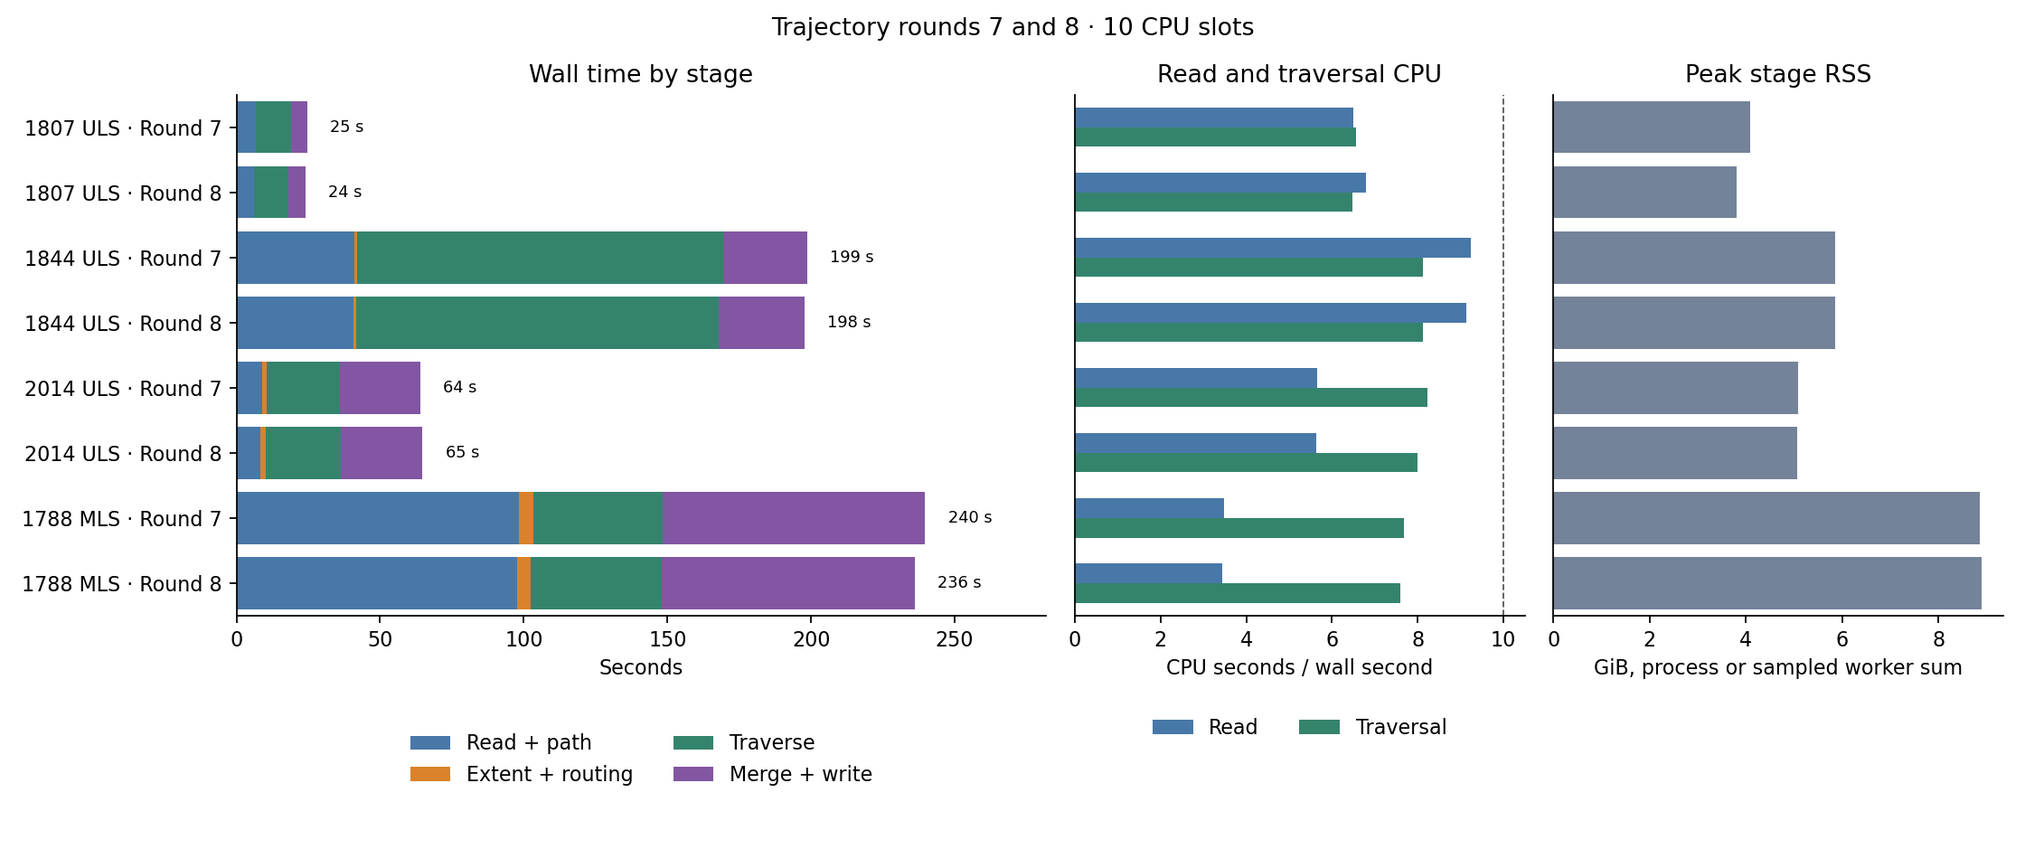
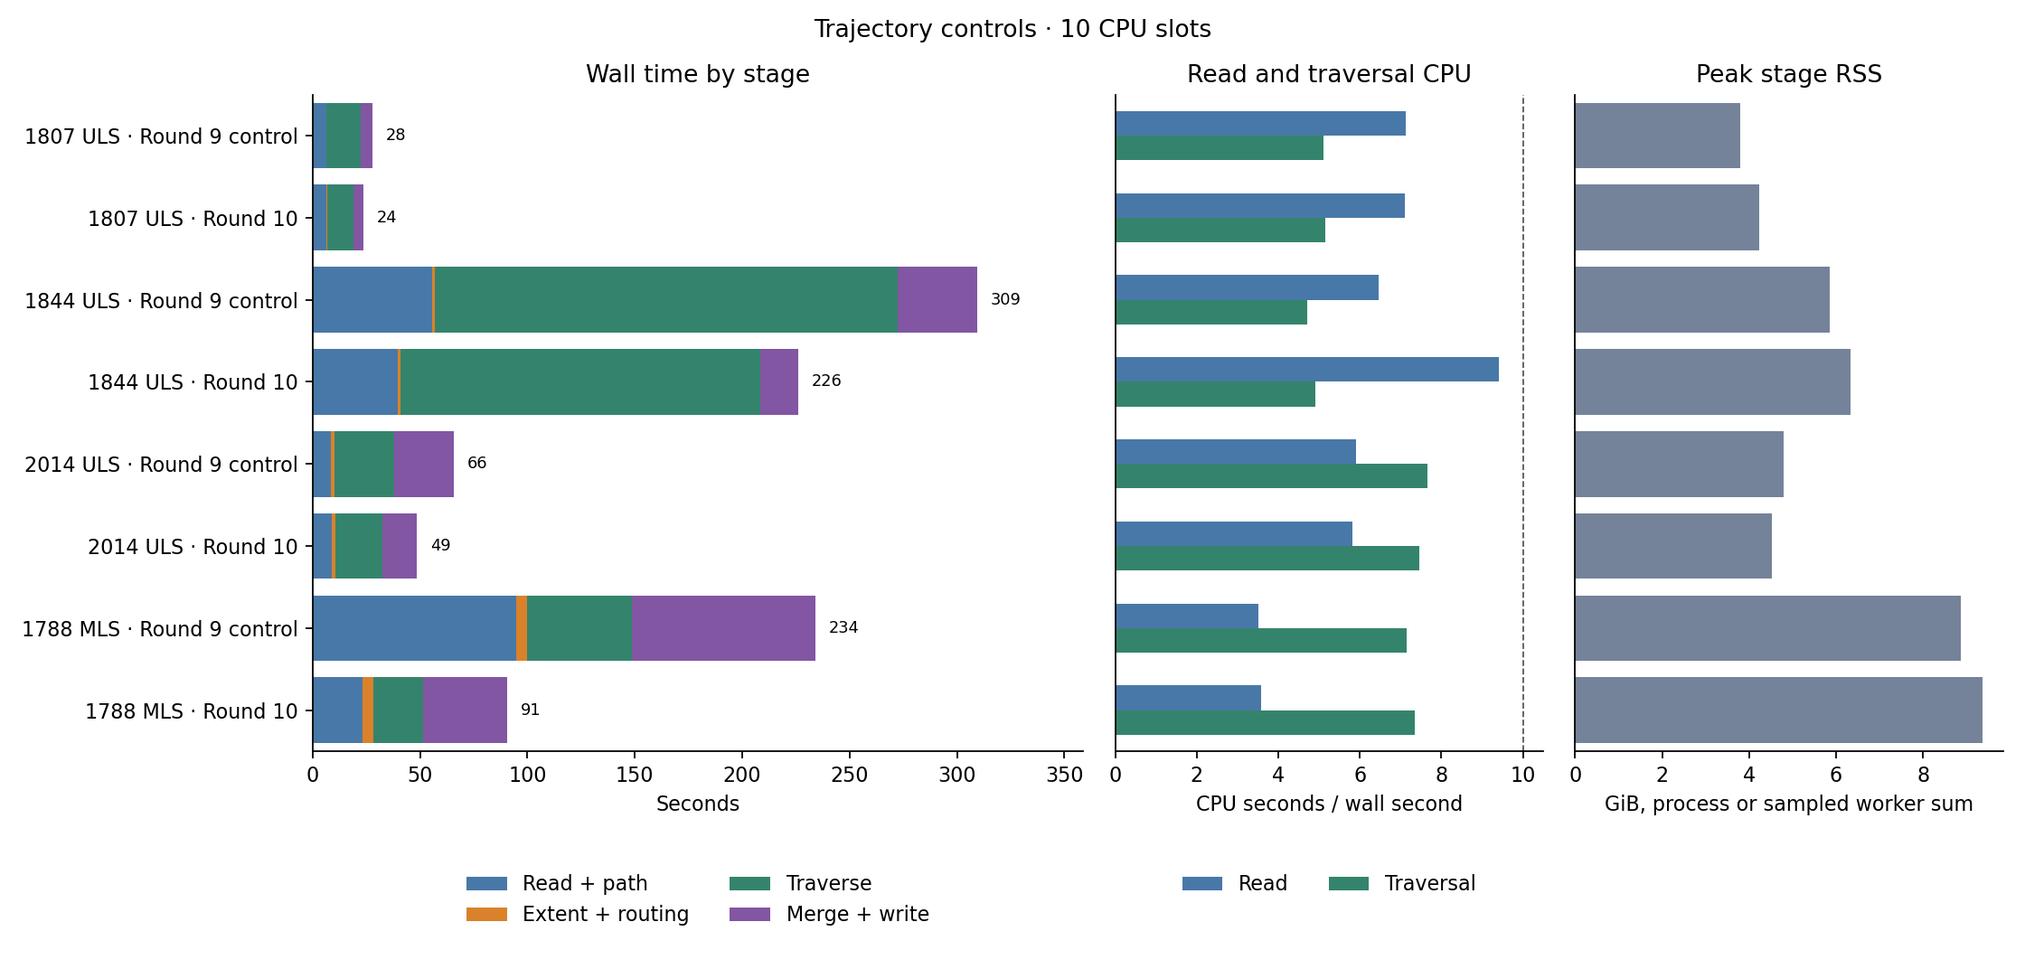
Document round 10 trajectory performance and resource limits

diff --git a/docs/figures/make_figures.py b/docs/figures/make_figures.py
@@ -25,42 +25,59 @@ stages = [
     ("Merge + write", ("classify + ground", "classify voxels + write products", "COPC write", "COG write")),
 ]
 colors = ["#4878a8", "#d9822b", "#34846d", "#8256a2"]
-runs = list(dict.fromkeys((r["run"], r["mode"]) for r in table if r["mode"] in ("Round 7", "Round 8")))
 rows = {(r["run"], r["mode"], r["stage"]): r for r in table}
-labels = [f"{name} · {mode}" for name, mode in runs]
-fig, axes = plt.subplots(1, 3, figsize=(14, 6), gridspec_kw={"width_ratios": [1.8, 1, 1]})
-positions = range(len(runs))
 
-for position, run in enumerate(runs):
-    offset = 0.0
-    for (name, members), color in zip(stages, colors):
-        seconds = sum(float(rows[(*run, member)]["wall_s"]) for member in members if (*run, member) in rows)
-        axes[0].barh(position, seconds, left=offset, color=color, label=name if position == 0 else None)
-        offset += seconds
-    axes[0].text(offset + 8, position, f"{offset:.0f} s", va="center", fontsize=8)
-    read = rows.get((*run, "read/time-sort"), {})
-    trace = rows.get((*run, "traversal"), {})
-    axes[1].barh(position - 0.15, float(read.get("cores", 0)), height=0.3, color=colors[0],
-                 label="Read" if position == 0 else None)
-    axes[1].barh(position + 0.15, float(trace.get("cores", 0)), height=0.3, color=colors[2],
-                 label="Traversal" if position == 0 else None)
-    peak = max(float(r["peak_ram_gib"]) for r in table if (r["run"], r["mode"]) == run)
-    axes[2].barh(position, peak, color="#748399")
 
-axes[0].set(title="Wall time by stage", xlabel="Seconds", yticks=list(positions), yticklabels=labels)
-axes[0].legend(loc="lower center", bbox_to_anchor=(0.5, -0.36), ncol=2, frameon=False)
-axes[0].set_xlim(0, axes[0].get_xlim()[1] * 1.12)
-axes[1].set(title="Read and traversal CPU", xlabel="CPU seconds / wall second", xlim=(0, 10.5), yticks=[])
-axes[1].axvline(10, color="#555", linestyle="--", linewidth=0.8)
-axes[1].legend(loc="lower center", bbox_to_anchor=(0.5, -0.27), ncol=2, frameon=False)
-axes[2].set(title="Peak stage RSS", xlabel="GiB, process or sampled worker sum", yticks=[])
-for ax in axes:
-    ax.set_ylim(len(runs) - 0.5, -0.5)
-    ax.spines[["top", "right"]].set_visible(False)
-fig.suptitle("Trajectory rounds 7 and 8 · 10 CPU slots", y=0.98)
-fig.tight_layout()
-fig.savefig(OUT / "stages.png", dpi=160)
-plt.close(fig)
+def plot_stages(modes, title, filename, *, minutes=False):
+    runs = list(dict.fromkeys((r["run"], r["mode"]) for r in table if r["mode"] in modes))
+    if not runs:
+        return
+    labels = [f"{name} · {mode}" for name, mode in runs]
+    fig, axes = plt.subplots(1, 3, figsize=(14, max(3.5, 0.65 * len(runs) + 1.5)),
+                             gridspec_kw={"width_ratios": [1.8, 1, 1]})
+    positions = range(len(runs))
+    divisor = 60 if minutes else 1
+    totals = []
+    for position, run in enumerate(runs):
+        offset = 0.0
+        for (name, members), color in zip(stages, colors):
+            seconds = sum(float(rows[(*run, member)]["wall_s"]) for member in members if (*run, member) in rows)
+            duration = seconds / divisor
+            axes[0].barh(position, duration, left=offset, color=color, label=name if position == 0 else None)
+            offset += duration
+        totals.append(offset)
+        read = rows.get((*run, "read/time-sort"), {})
+        trace = rows.get((*run, "traversal"), {})
+        axes[1].barh(position - 0.15, float(read.get("cores", 0)), height=0.3, color=colors[0],
+                     label="Read" if position == 0 else None)
+        axes[1].barh(position + 0.15, float(trace.get("cores", 0)), height=0.3, color=colors[2],
+                     label="Traversal" if position == 0 else None)
+        peak = max(float(r["peak_ram_gib"]) for r in table if (r["run"], r["mode"]) == run)
+        axes[2].barh(position, peak, color="#748399")
+
+    width = max(totals)
+    legend_y = -0.25 if minutes else -0.16
+    for position, duration in enumerate(totals):
+        axes[0].text(duration + width * 0.02, position, f"{duration:.0f}", va="center", fontsize=8)
+    axes[0].set(title="Wall time by stage", xlabel="Minutes" if minutes else "Seconds",
+                yticks=list(positions), yticklabels=labels, xlim=(0, width * 1.16))
+    axes[0].legend(loc="upper center", bbox_to_anchor=(0.5, legend_y), ncol=2, frameon=False)
+    axes[1].set(title="Read and traversal CPU", xlabel="CPU seconds / wall second", xlim=(0, 10.5), yticks=[])
+    axes[1].axvline(10, color="#555", linestyle="--", linewidth=0.8)
+    axes[1].legend(loc="upper center", bbox_to_anchor=(0.5, legend_y), ncol=2, frameon=False)
+    axes[2].set(title="Peak stage RSS", xlabel="GiB, process or sampled worker sum", yticks=[])
+    for ax in axes:
+        ax.set_ylim(len(runs) - 0.5, -0.5)
+        ax.spines[["top", "right"]].set_visible(False)
+    fig.suptitle(title, y=0.98)
+    fig.tight_layout()
+    fig.savefig(OUT / filename, dpi=160)
+    plt.close(fig)
+
+
+plot_stages(("Round 9 control", "Round 10"), "Trajectory controls · 10 CPU slots", "stages.png")
+plot_stages(("Round 8 50 GiB", "Round 10 50 GiB"), "Dataset 2585 full replays · 10 CPU slots and 50 GiB",
+            "stages-2585.png", minutes=True)
 
 # ---------- flow.png: decision flow ----------
 fig, ax = plt.subplots(figsize=(13, 15))
@@ -103,10 +120,10 @@ box(5, 13.9, "Quality: median line miss ≤ 0.1 m good · ≤ 0.5 m rough\n> 0.5
 ok(2.3, 11.4, "Trajectory CSV and GeoJSON\nJSON report with --debug")
 box(7.4, 11.4, "Occlusion requested?\npath = delivered (always, if given;\nflag if median miss > 0.1 m) else estimated", w=5.2, h=1.8)
 box(7.4, 8.6, "Merge first-read column bounds in path coverage\nSample terrain raster with lowest-hit fallback", w=5.6, h=1.6)
-box(7.4, 6.0, "Stream disjoint GPS windows in parallel\nAdmit workers by estimated memory and measured RSS.", w=5.6, h=1.6)
-box(7.4, 3.5, "Classify voxels: 1 filled · 2 empty · 3 occluded · 4 unobserved", w=5.8, h=1.2)
+box(7.4, 6.0, "Stream disjoint GPS windows in parallel\nAdjust admission using observed worker peak RSS.", w=5.6, h=1.6)
+box(7.4, 3.5, "Classify blocks in parallel, then write in grid order", w=5.8, h=1.2)
 ok(7.4, 1.2, "Occlusion COPC (classes 1, 3 and 4)\n+ COG (one band per voxel layer, 0.5 m default)")
-box(11.65, 8.6, "Occlusion error\nstderr, empty products,\npath kept", color="#fde2e1", w=2.4, h=1.9)
+box(11.65, 8.6, "Occlusion error\nstderr, empty products,\nexit 2 if scratch is full", color="#fde2e1", w=2.4, h=1.9)
 
 for y1, y2 in ((28.2, 27.4), (25.8, 25.0), (23.4, 22.6), (21.0, 20.2), (18.6, 17.8), (15.8, 14.7)):
     arrow(5, y1, 5, y2)

diff --git a/docs/REPORT.md b/docs/REPORT.md
@@ -87,27 +87,31 @@ The steps below follow `src/threedtrees_trajectory/cli.py:main`.
    The highest hits within path coverage give canopy height.
    The final vertical grid spans ground minus 1 m through canopy top plus 1 m, within the point extent.
 8. **Traversal** (`time_windows.py`, `ray_walk.cpp`). Workers seek the relevant LAS/LAZ ranges, rebuild whole
-   pulses and trace them in disjoint GPS windows. The window planner uses the available slots and splits
+   pulses and trace them in disjoint GPS windows. Separated returns are sorted by index and paired in bounded
+   batches that keep equal time, point source and channel together. The window planner uses the available slots and splits
    further in time if needed. The scheduler starts each worker with a reservation based on the window's echo
    count, count voxels and columns. It scales the planning estimate for later workers by the highest observed
    RSS-to-estimate ratio, adds 25% and 256 MiB, and checks cgroup headroom before admitting workers.
+   Clean file pages can be reclaimed. Dirty and writeback pages count against headroom.
    On suspected memory failure, it drains active workers before retrying the affected window alone
    with a larger reservation. Completed count files can be reused after an interruption.
    The reread needs point source ID for pulse grouping and clock repair, so it skips scan angle.
    Unrepaired path-boundary rereads need just the base layer, Z and GPS time.
-9. **Classify voxels + write products** (`occlusion.py`). Sum hit, pass and hidden counts blockwise. A hit makes a filled
+9. **Classify voxels + write products** (`occlusion.py`). Workers sum hit, pass and hidden counts and classify each
+   block independently. The writer consumes completed blocks in grid order. A hit makes a filled
    voxel, a pass makes an empty voxel, and hidden-only makes an occluded voxel. Keep an unobserved class
    for voxels with zero coverage. Write voxel records to COPC and an occluded share to each COG band.
    With voxel size `s`, band `k` covers `[k·s, (k+1)·s)` metres above ground.
 10. **Occlusion failure** (`cli.py`). Print the error to stderr and publish zero-byte occlusion files.
-    Traversal errors after a successful trajectory estimate retain it with a warning in its CSV header.
+    Ordinary traversal errors after a successful trajectory estimate retain it with a warning in its CSV header.
+    Exhausted checkpoint storage is a job error with exit code 2.
 
 ### Exit codes
 
 | Code | Meaning | Where |
 | --- | --- | --- |
 | 0 | Done | `cli.py` |
-| 2 | Invalid arguments, unreadable input, out of memory, TLS refused, requested debug report not writable | `cli.py` |
+| 2 | Invalid arguments, unreadable input, out of memory, checkpoint storage exhausted, TLS refused, requested debug report not writable | `cli.py` |
 | 3 | GPS time missing, constant or not finite | `coverage.py`, `pulses.py`, `estimate.py` |
 | 4 | No path can be estimated (no pulses, single returns without scan angle, too few reliable positions) | `coverage.py`, `estimate.py`, `cli.py` |
 
@@ -118,6 +122,23 @@ path as supplementary data.
 ## 3. Stage resources
 
 ![Stage resources](figures/stages.png)
+
+Round 10 control replays used the pinned image, ten CPU slots, and a 50 GiB cap. Each pair compares wall
+times from one run at `38ff410` and one at round 10 with lowest-hit ground.
+
+| Dataset | Whole job (s) | Path (s) | Traversal (s) | Classify and write (s) | COG (s) |
+| --- | ---: | ---: | ---: | ---: | ---: |
+| 1807 | 28.7 → 24.6 | 1.0 → 1.1 | 15.9 → 12.6 | 1.3 → 0.3 | 0.8 → 0.7 |
+| 1844 | 311.3 → 228.0 | 5.6 → 5.1 | 215.7 → 167.5 | 10.6 → 1.8 | 10.1 → 6.6 |
+| 2014 | 67.4 → 50.2 | 1.0 → 1.0 | 27.6 → 22.0 | 11.0 → 2.1 | 9.4 → 6.4 |
+| 1788 | 236.9 → 93.7 | 89.3 → 17.9 | 48.9 → 23.2 | 45.5 → 8.0 | 28.3 → 19.3 |
+
+The 1788 scan-angle fits use separate processes and merge in time order. The optimized ray walker reuses
+the active column and specializes single-return pulses. In a one-core benchmark of 1.8 million synthetic
+rays it ran in 4.03 s, down from 5.13 s, with identical counts.
+
+Terrain controls use the round-9 reference rasters for 1807 and 2014 and locally generated 1 m
+lowest-return fixtures for 1844 and 1788. Each comparison uses the same raster for both tool versions.
 
 The round-7 baseline (`6e2410a`) and round 8 used the same local scanner-order LAZ inputs and ten
 CPU slots per job within a shared 140 GiB scope. Datasets 1807, 1844 and 2014 are ULS and 1788
@@ -302,28 +323,52 @@ on 1844 and 5.1 on 2014 with ten workers.
 
 ### Dataset 2585 at 50 GiB
 
-The 50 GiB replay used 25 local scanner-order LAS 1.2 PF 3 files (7,044,924,732 input points) and ten CPU slots. Peak RSS takes the larger of the sampled worker-inclusive aggregate and the highest
-single-process RSS. The scratch values measure allocated blocks.
+The 50 GiB replays used the same 25 local scanner-order LAS 1.2 PF 3 files (7,044,924,732 input points),
+ten CPU slots, and no swap. Round 10 used `--grid-memory-gib 8`. Mean cores, peak RSS and scratch each
+read from round 8 to round 10. RSS uses the greater of the sampled worker-inclusive sum and the largest
+process. Scratch uses allocated blocks.
 
-| Stage | Wall (h:mm:ss or m:ss) | Mean cores | Peak RSS (GiB) | Sampled scratch (GiB) |
-| --- | ---: | ---: | ---: | ---: |
-| Read, reconstruct pulses and index source | 8:39 | 9.01 | 16.08 | — |
-| Platform check | 0:00 | 1.00 | 12.38 | — |
-| Path fitting | 0:24 | 1.62 | 12.39 | — |
-| Extent and crop | 0:16 | 1.00 | 11.86 | — |
-| Plan GPS windows | 0:15 | 1.00 | 11.93 | — |
-| Rebuild and trace pulses | 2:59:48 | 5.71 | 30.46 | 26.24 |
-| Classify voxels + write products | 20:40 | 1.00 | 16.17 | 30.05 |
-| Write voxel COPC | 0:33 | 8.39 | 14.03 | 41.69 |
-| Write height-band COG | 2:57 | 1.65 | 13.65 | 41.69 |
-| Whole job | 3:33:44 | 5.31 | 30.46 | 41.69 |
+![2585 stage resources at 50 GiB](figures/stages-2585.png)
 
-Traversal completed 99 GPS windows with 7 workers at peak. Peak reservations were 34.51 GiB, with 0 isolated retries. Median and maximum window RSS were 1.86 GiB and 5.02 GiB. Cgroup memory peaked at 50.00 GiB including file cache, with 0 OOM kills. The products contain 78,708,640 COPC records and a 4,520 × 2,426 COG with 127 bands.
+| Stage | Round 8 wall | Round 10 wall | Mean cores | Peak RSS (GiB) | Allocated scratch (GiB) |
+| --- | ---: | ---: | ---: | ---: | ---: |
+| Read, reconstruct pulses and index source | 8:39 | 8:23 | 9.01 → 8.89 | 16.08 → 15.29 | — → — |
+| Platform check | 0:00 | 0:00 | 1.00 → 1.00 | 12.38 → 12.36 | — → — |
+| Path fitting | 0:24 | 0:16 | 1.62 → 1.62 | 12.39 → 12.37 | — → — |
+| Extent and crop | 0:16 | 0:16 | 1.00 → 1.00 | 11.86 → 11.80 | — → — |
+| Plan GPS windows | 0:15 | 0:26 | 1.00 → 1.00 | 11.93 → 11.94 | — → — |
+| Rebuild and trace pulses | 2:59:48 | 1:38:40 | 5.71 → 8.26 | 30.46 → 32.11 | 26.24 → 32.78 |
+| Classify voxels and write intermediates | 20:40 | 20:48 | 1.00 → 2.16 | 16.17 → 21.77 | 30.05 → 38.54 |
+| Write voxel COPC | 0:33 | 0:32 | 8.39 → 8.55 | 14.03 → 33.19 | 41.69 → 50.18 |
+| Write height-band COG | 2:57 | 1:37 | 1.65 → 2.03 | 13.65 → 18.39 | 41.69 → 50.19 |
+| Whole job | 3:33:44 | 2:11:02 | 5.31 → 7.20 | 30.46 → 33.19 | 41.69 → 50.19 |
 
-Read, pulse reconstruction and path fitting took 9.1 min, compared with 8.4 min in the stopped 50 GiB run. That run stopped after 33 windows and 3 h 15 min of traversal, averaging about 2.4 cores over the job. Round 8 passed its 2.68 billion traced echoes after 1:35:17 of total wall time, compared with 3 h 24 min in the stopped run. The full round-8 run averaged 5.31 cores and completed in 3:33:44. The round-2 spatial-tile replay took 7 h 46 min under a 190 GiB cap. Round 8 used 46% of that wall time.
+Round 10 completed 143 GPS windows. Peak concurrency rose from seven to ten workers. Mean traversal CPU
+rose from 5.71 to 8.26 cores. Peak reservations were 34.35 GiB in round 10 and 34.51 GiB in round 8.
+Median and maximum worker RSS were 1.36 and 3.08 GiB in round 10. Cgroup memory peaked at 50.00 GiB
+including file cache. The run recorded zero OOM kills and zero isolated retries.
 
-The verified input was the local raw acquisition. The standardized 2585 collection is still needed
-to validate the proposed Galaxy resource class.
+Round 8 reserved substantially more than the measured RSS for the largest windows. About 1.5% of its
+reads repeated records at window boundaries. Round 10 reduces retained fragment arrays, accounts for dirty
+file pages, and uses a lower per-window planning ceiling to improve admission.
+
+The CSV and GeoJSON matched round 8 byte for byte. COG pixels and stored tags matched, as did all
+decoded COPC records sorted by voxel centre. Untwine randomly samples COPC overview levels during
+packaging, so equivalent records can produce different compressed bytes.
+[Untwine 1.5.1 sampling implementation](https://github.com/hobuinc/untwine/blob/1.5.1/bu/Processor.cpp#L99-L126)
+
+The first merge took 20:48. A tile can overlap more windows than the 32-entry cache can hold, causing the
+same column offsets to be rebuilt for successive tiles. The new cache retains the layouts and virtual
+mappings when cgroup headroom and the file-descriptor limit allow it. The checkpoint replay reused
+143 completed windows under the same 50 GiB cap. It classified and wrote the intermediates in 1:13.
+Substituting that measured stage into the full run gives an estimated 1:51:27 from scratch. The resumed
+merge's process RSS peaked at 62.13 GiB including mapped count files. The resumed cgroup reached 50 GiB
+with zero OOM kills.
+
+The stopped 50 GiB run processed 2.68 billion echoes in 3 h 24 min, compared with 1 h 35 min in round 8
+and under 44 min in round 10. The round-2 spatial-tile replay took 7 h 46 min under a 190 GiB cap. The
+full 50 GiB replays used the raw acquisition. A standardized 2585 replay is required to validate the
+Galaxy estimate for that acquisition.
 
 **Resource request for Galaxy (proposal, 10 cores)**
 
@@ -332,7 +377,7 @@ to validate the proposed Galaxy resource class.
 | ≤ 75 M | 32 GiB | 16 GiB | 1 h |
 | 75–750 M | 64 GiB | 96 GiB | 2 h |
 | 750 M–2.1 B | 96 GiB | 256 GiB | 5 h, estimated |
-| 2.1–7.1 B | 140 GiB | 750 GiB | 10 h, estimated |
+| 2.1–7.1 B | 96 GiB | 256 GiB | 6 h, estimated |
 
 For wide grids, also size for the ground-to-canopy count cells, merge block depth and raster band count.
 

diff --git a/README.md b/README.md
@@ -111,12 +111,15 @@ Occlusion uses independent workers over disjoint GPS-time windows. Workers seek 
 trace each complete pulse once. They use the same voxel lattice and store compact counts between the ground
 and canopy. The planner splits a window further in time when its working memory or echo count exceeds the
 budget. Set the planning ceiling with `--grid-memory-gib` (16 GiB by default). At runtime the scheduler reserves
-the estimated memory of each window within the available cgroup memory and `--threads` limit. It adjusts
-subsequent reservations using measured window peak RSS. A worker that runs out of memory is retried once
+the estimated memory of each window within the available cgroup memory and `--threads` limit. Clean file
+cache is reclaimable. Dirty and writeback pages count toward the working budget. The scheduler adjusts
+subsequent reservations using each completed window's peak RSS. A worker that runs out of memory is retried once
 on its own if a larger reservation is available.
 
-The merge adds window counts blockwise before classifying voxels. Repeat the same command to resume an
-interrupted run. Keep the `.occlusion-*` checkpoint beside the COPC until both outputs are published.
+Workers merge counts and classify independent voxel blocks. The writer publishes COPC records and raster windows
+in grid order. Repeat the same command to resume an interrupted run and reuse finished windows. Keep the
+`.occlusion-*` checkpoint beside the COPC until both outputs are published. A checkpoint write failure
+from exhausted storage reports exit code 2.
 A merged COPC can supply the trajectory estimate. For occlusion, supply the standardized LAS/LAZ collection.
 
 The delivered path is used for every occlusion ray when supplied. `OCCLUSION_DELIVERED_MISS_FLAG` records whether
@@ -131,9 +134,13 @@ dataset tags. The COPC stores the same keys in the `3dtrees` extended variable l
 
 COPC indexing and COG conversion use temporary files beside the product destinations. The job needs space for
 the uncompressed voxel LAS, intermediate TIFF and final outputs. Wide rasters use a band-interleaved
-intermediate and up to four job slots for the COG conversion. The image includes Untwine 1.5.1. For local
+intermediate and up to four job slots for the COG conversion. They skip intermediate compression when scratch
+has room for the uncompressed raster. The image includes Untwine 1.5.1. For local
 runs, install the package with `python -m pip install .` using a C++17 compiler and set
 `TRAJECTORY_UNTWINE` to an executable Untwine 1.5.1 installation.
+
+Untwine randomizes COPC overview sampling. For regression checks, compare decoded records in voxel-centre order.
+[Untwine 1.5.1 sampling implementation](https://github.com/hobuinc/untwine/blob/1.5.1/bu/Processor.cpp#L99-L126)
 
 ## Platform pre-gate
 
@@ -174,8 +181,9 @@ the path tool's scope.
 
 - The reader decodes up to five million points per batch. The job caps decoding, path fitting and window workers
   at the configured `GALAXY_SLOTS` or `--threads`, CPU affinity and cgroup quota. The default is ten slots.
-  Large files decode independent record ranges and merge them in scanner order. The path solver runs independent
-  fits concurrently and merges them in order. Compressed LAS 1.4 point formats 6–10 decode only
+  Large files decode independent record ranges and merge them in scanner order. The path solver uses threads
+  for pulse-line fits and separate processes for scan-angle fits. It merges both in time-window order.
+  Compressed LAS 1.4 point formats 6–10 decode only
   coordinates, GPS time, return numbers, scanner channel, point source ID and scan angle during path
   estimation. Window tracing skips scan angle, and ordinary extent rereads use only positions and GPS time
   plus the LAZ base layer. Point formats 0–5 use full decoding.
@@ -202,7 +210,7 @@ check count cells in the ground-to-canopy envelope, the extent of the merge bloc
 | Up to 75 million | 32 | 16 | 1 h |
 | >75 million to 750 million | 64 | 96 | 2 h |
 | >750 million to 2.1 billion | 96 | 256 | 5 h |
-| >2.1 billion to 7.1 billion | 140 | 750 | 10 h |
+| >2.1 billion to 7.1 billion | 96 | 256 | 6 h |
 
 The standardized LAZ replay for 2027 (29.7 M points) took 78 s and peaked at 3.0 GiB of cgroup memory.
 Historical scanner-order LAZ benchmarks provide headroom estimates for the larger classes:
@@ -217,8 +225,10 @@ Historical scanner-order LAZ benchmarks provide headroom estimates for the large
 
 The 2014 single-return replay reached 24.01 GiB, so the smallest class allows 32 GiB. The 1844 replay
 fits the 64 GiB class with room for the parent process and file cache. The 750 M–2.1 B class is interpolated.
-The round-2 raw 2585 replay reached its 190 GiB cap including file cache. Round 8 replayed the raw acquisition
-in 3 h 34 min with ten CPU slots and a 50 GiB cap. The proposed 140 GiB Galaxy class still needs a full standardized 2585 run.
+The round-10 raw 2585 replay took 2 h 11 min with ten CPU slots, a 50 GiB cap and about 50 GiB of
+allocated scratch. A replay from completed checkpoints measured 1 min 13 s for the final merge.
+The resource class is an estimate for acquisitions with a comparable ground-to-canopy footprint.
+A standardized 2585 replay is still required for Galaxy validation.
 
 The standardized 1788 collection has 24.7 M points and a 2,000 × 2,000 × 1,278 grid at 0.5 m.
 Use `--debug` for current window memory and scratch measurements. [Stage resources](docs/REPORT.md#3-stage-resources)
